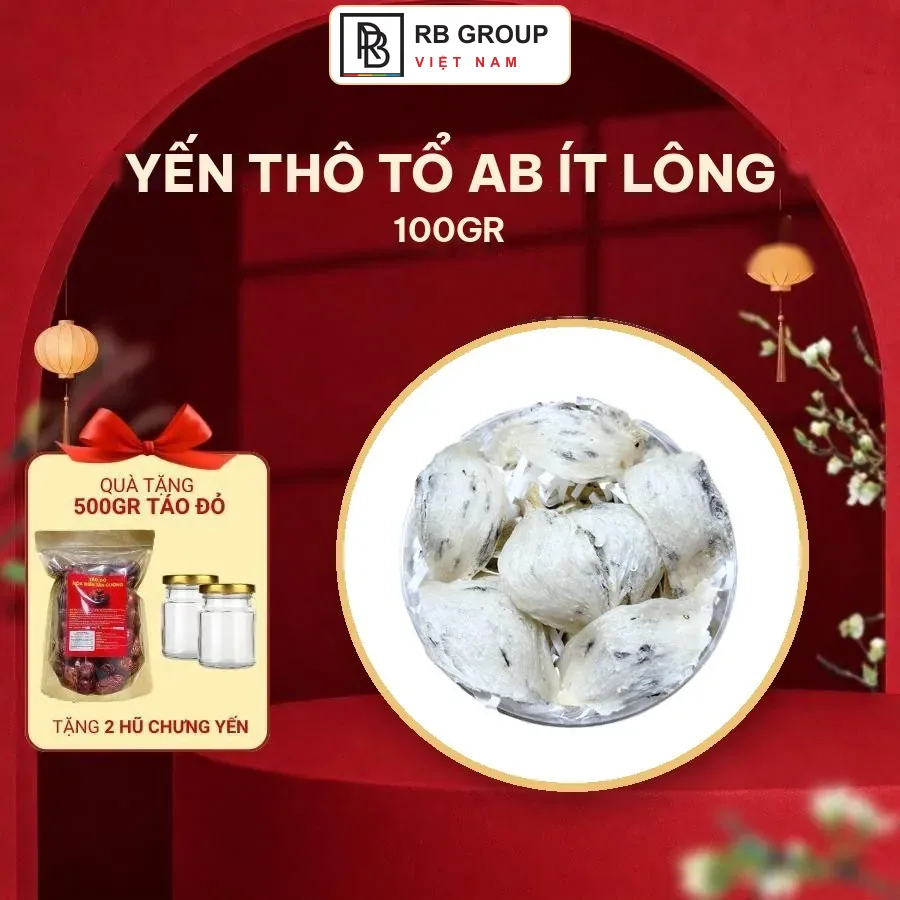
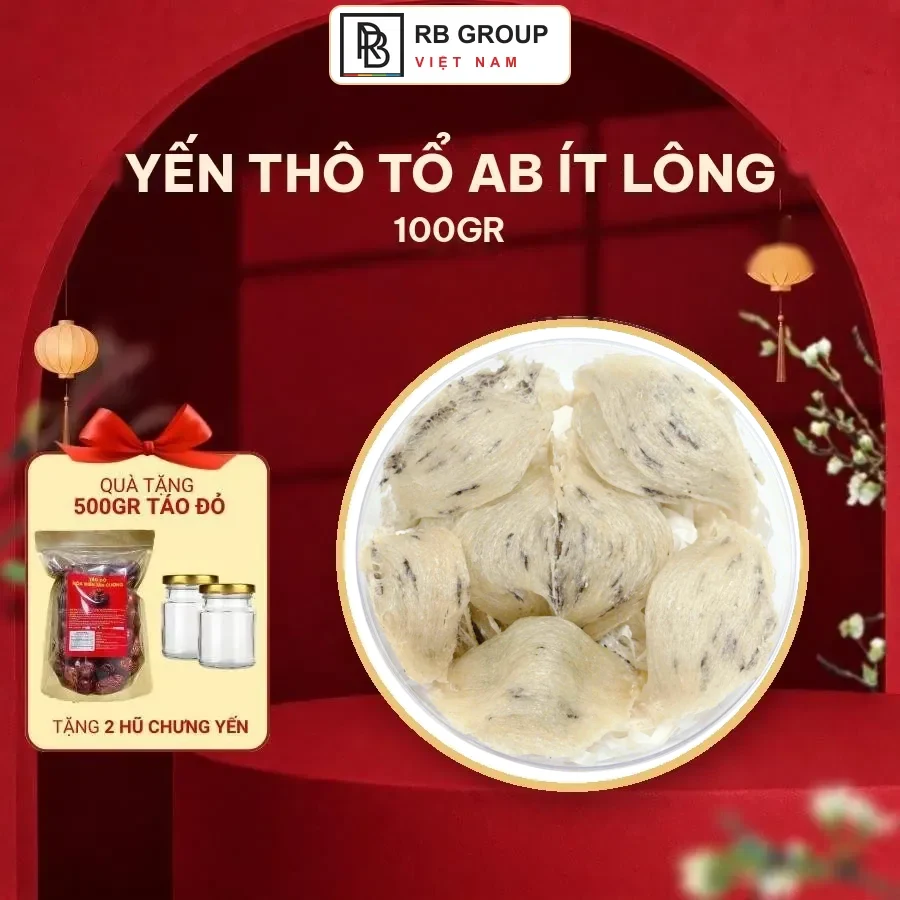
Thay ảnh tổ yến trong khung ảnh chính Yến Thô Tổ AB Ít Lông

Changed region(s): [[0.3733, 0.3733, 0.8711, 0.8711]]

diff --git a/index.html b/index.html
@@ -755,7 +755,7 @@ const SETS = [
 ];
 const DIR = "images/san-pham/";
 // Đổi số phiên bản khi thay ảnh catalog để trình duyệt tải ảnh mới thay vì ảnh cũ đã lưu.
-const IMG_V = "?v=9";
+const IMG_V = "?v=10";
 // Ảnh hiển thị dùng bản WebP (nhẹ hơn ~40%); bản .jpg gốc giữ lại cho dữ liệu SEO và chia sẻ.
 const webp = f => f.replace(/\.jpg$/, ".webp");
 const full = f => DIR + webp(f) + (/^(catalog|that|khung|tet)\//.test(f) ? IMG_V : "");
